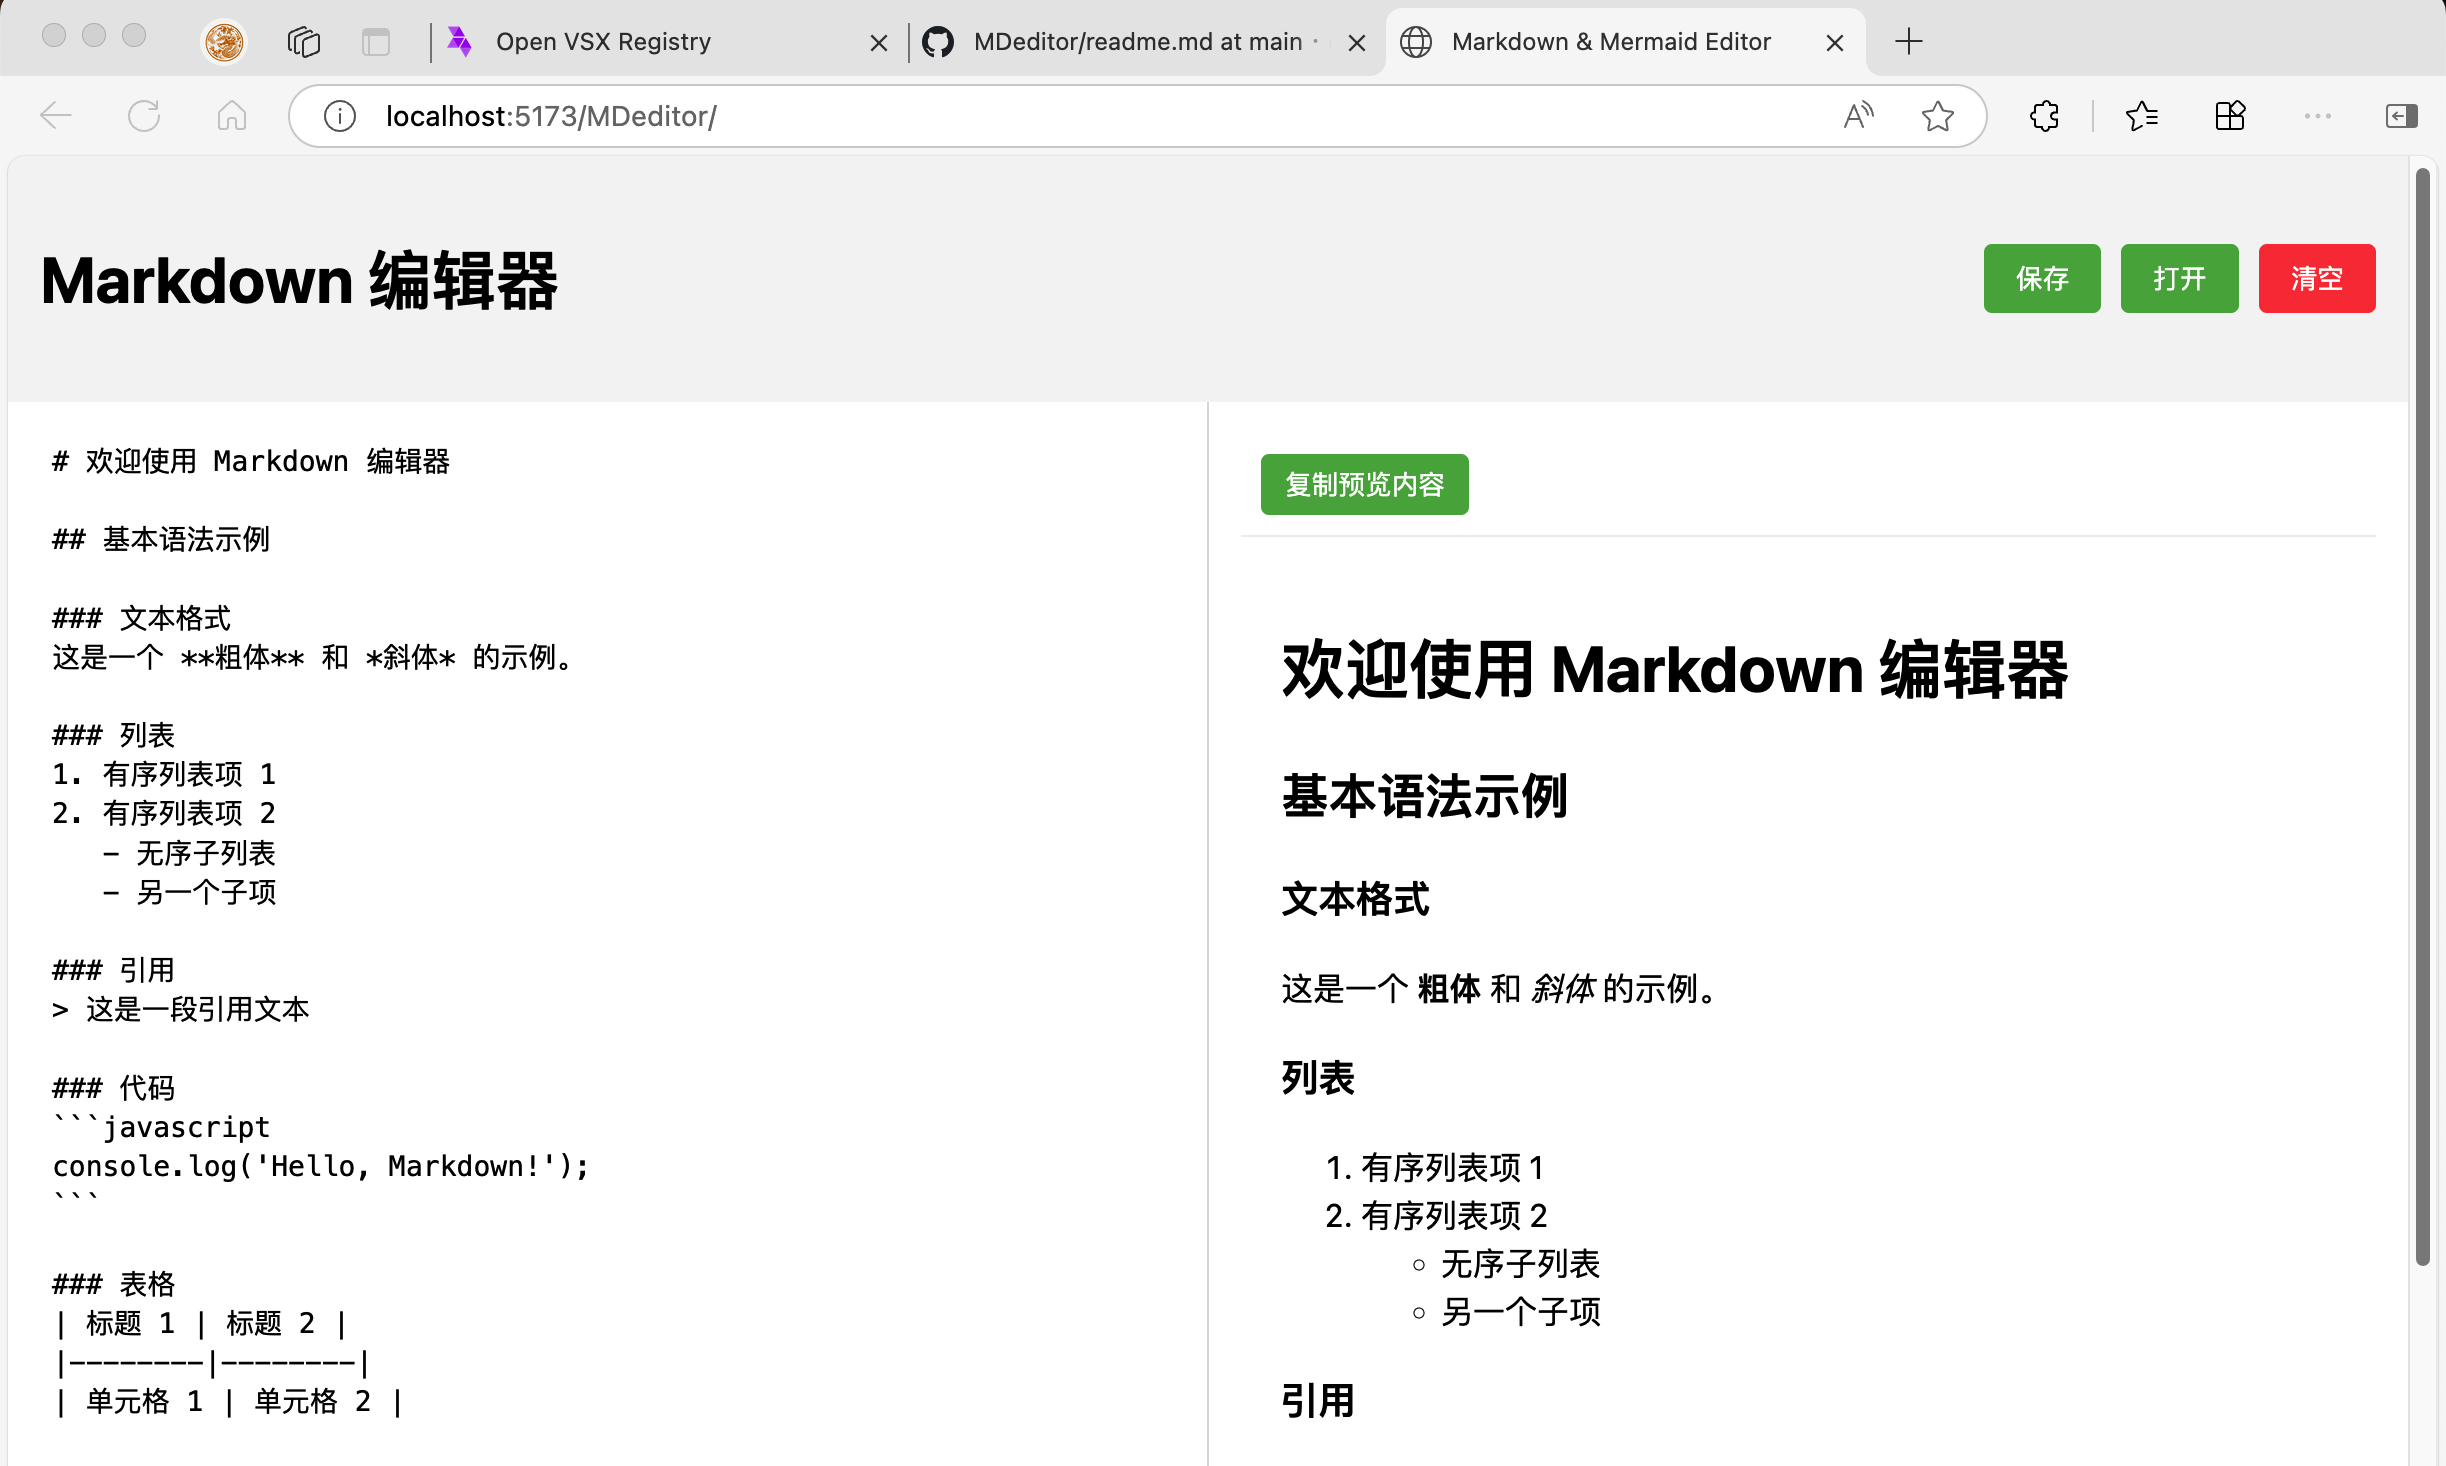
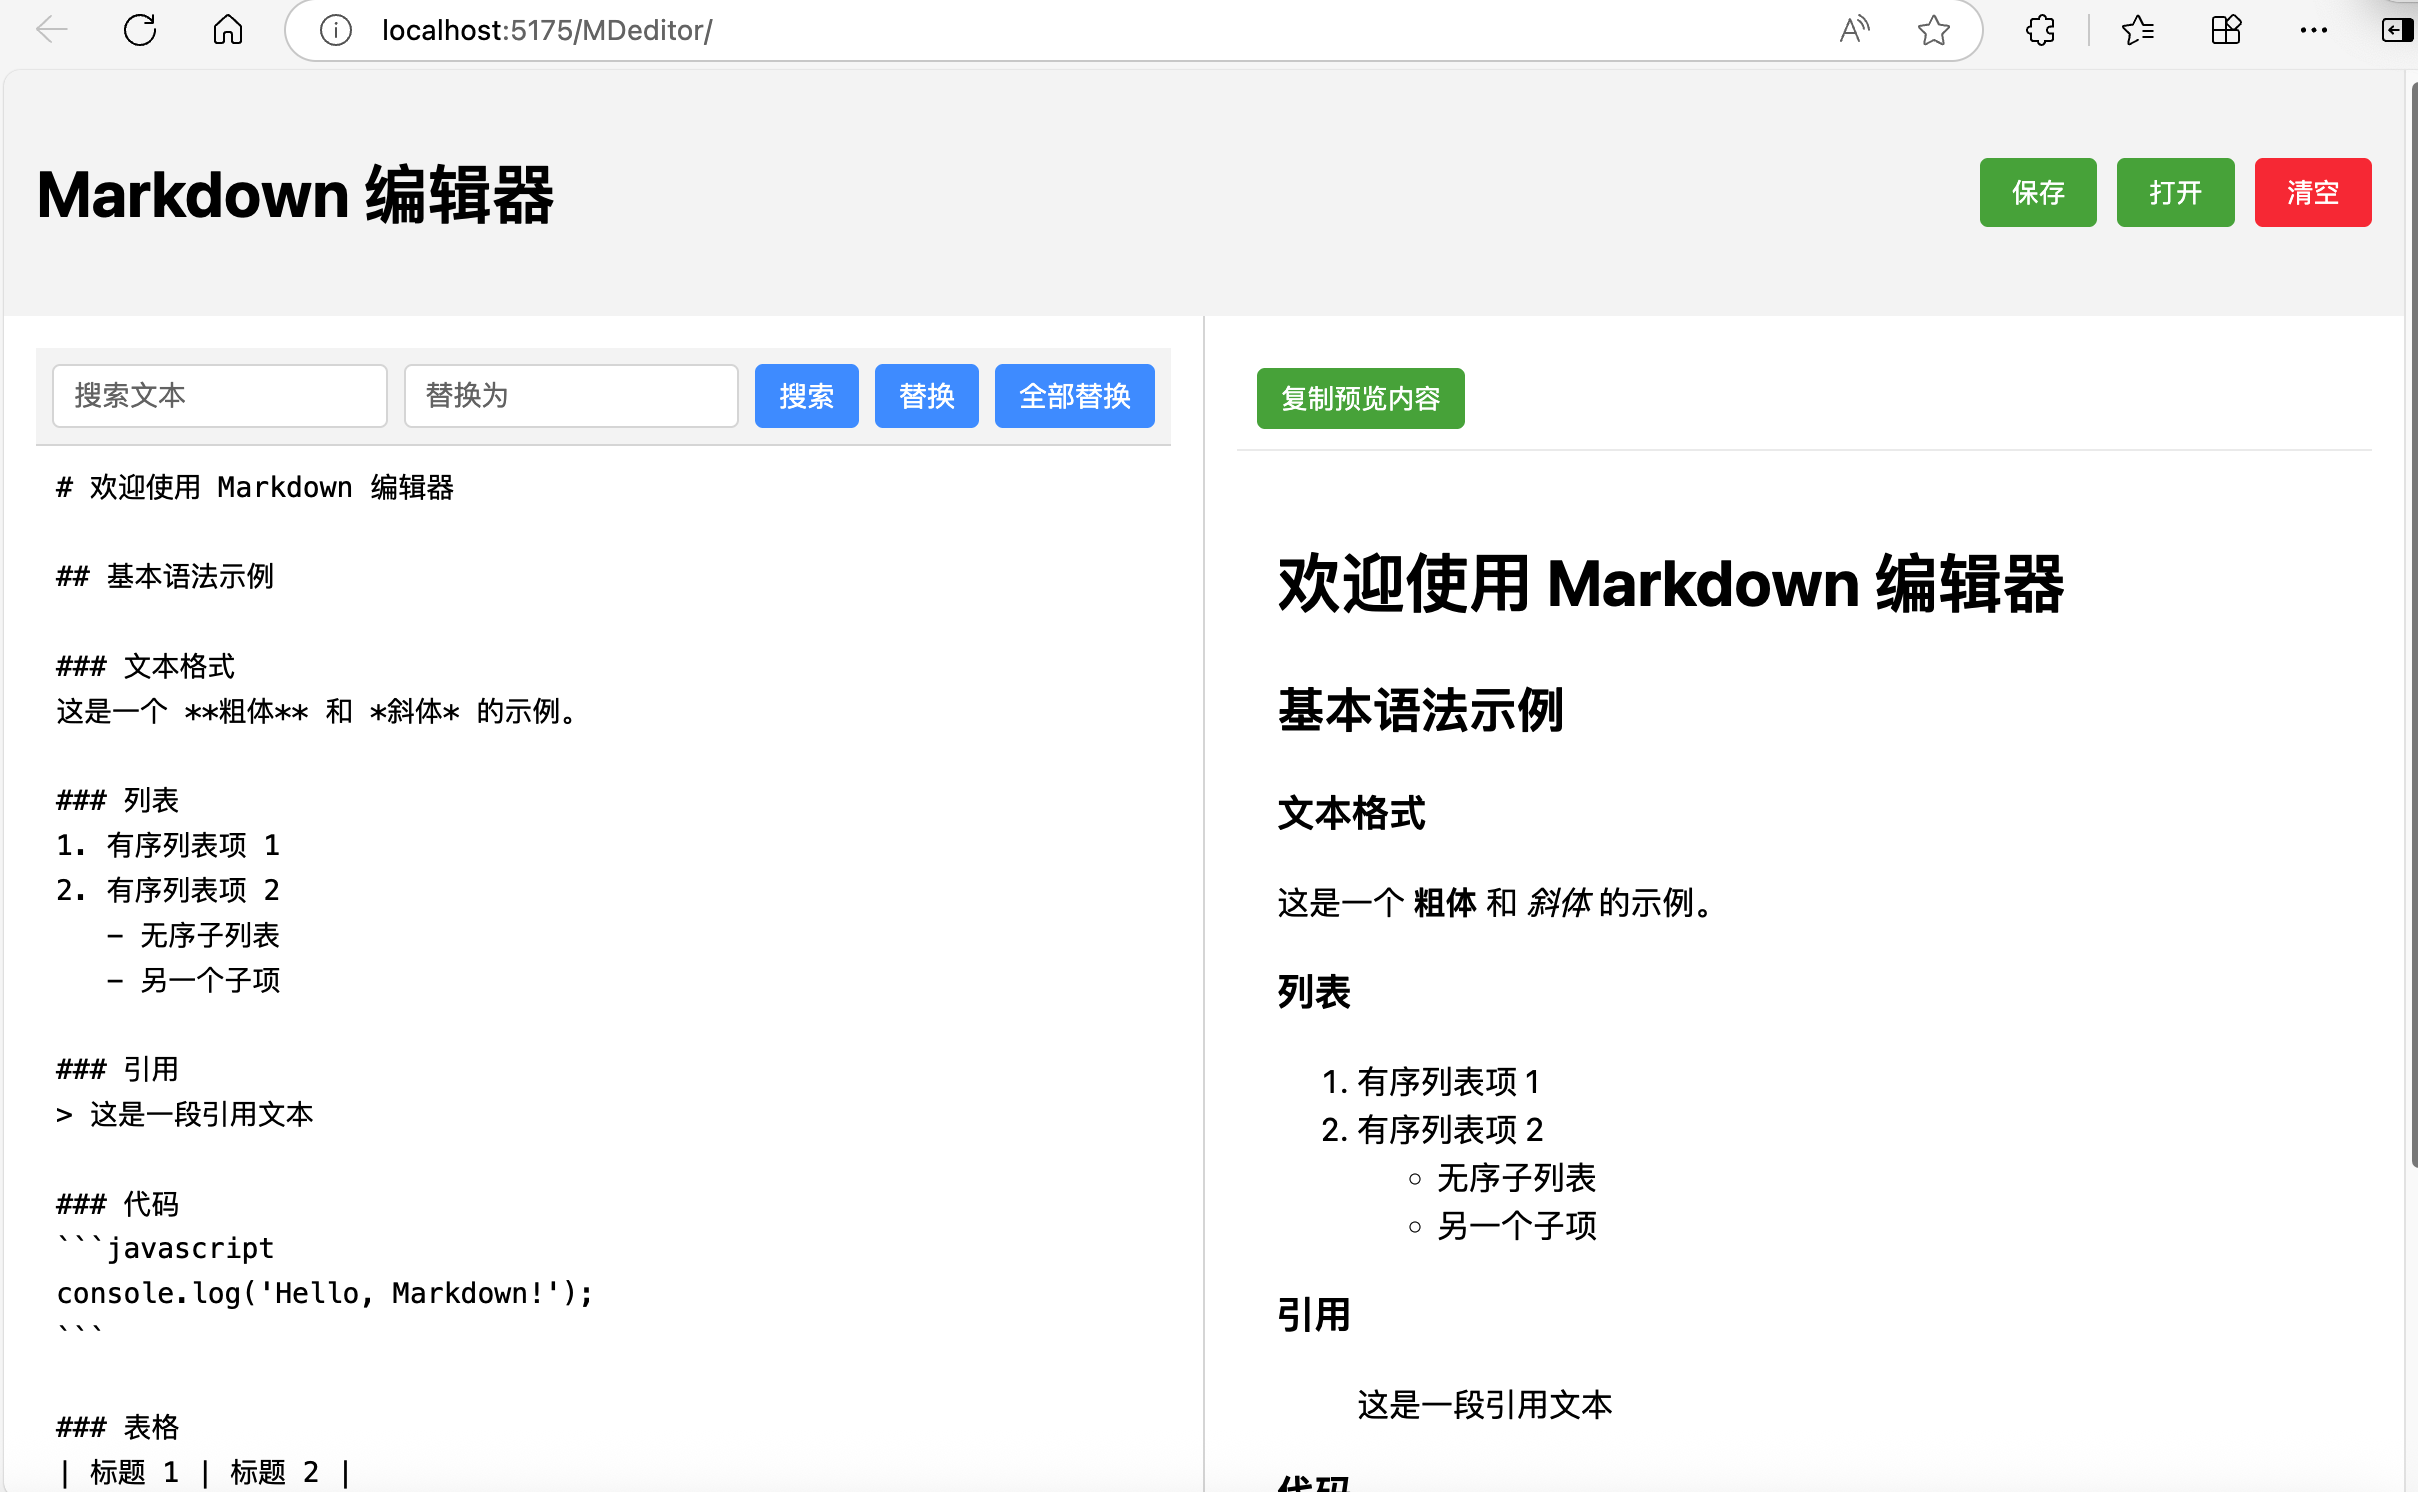
feat: 添加搜索替换功能
- 新增文本搜索功能
- 新增单个替换功能
- 新增全部替换功能
- 优化编辑器样式
- 更新项目截图

diff --git a/src/components/Editor.vue b/src/components/Editor.vue
@@ -1,28 +1,151 @@
 <template>
   <div class="editor-container">
+    <!-- 添加搜索和替换功能区域 -->
+    <div class="search-replace-container">
+      <div class="search-replace-inputs">
+        <input 
+          v-model="searchText" 
+          placeholder="搜索文本" 
+          @keyup.enter="searchAndReplace(false)"
+        />
+        <input 
+          v-model="replaceText" 
+          placeholder="替换为" 
+          @keyup.enter="searchAndReplace(true)"
+        />
+      </div>
+      <div class="search-replace-buttons">
+        <button @click="searchAndReplace(false)" title="搜索">搜索</button>
+        <button @click="searchAndReplace(true)" title="替换">替换</button>
+        <button @click="replaceAll" title="全部替换">全部替换</button>
+      </div>
+    </div>
+    
     <textarea
-      v-model="content"
-      class="editor"
+      ref="editorEl"
+      :value="modelValue"
       @input="handleInput"
+      class="editor"
+      spellcheck="false"
     ></textarea>
   </div>
 </template>
 
-<script setup>
-import { ref } from 'vue'
-
-const props = defineProps({
-  modelValue: {
-    type: String,
-    default: ''
+<script>
+export default {
+  props: {
+    modelValue: {
+      type: String,
+      default: ''
+    }
+  },
+  data() {
+    return {
+      searchText: '',
+      replaceText: '',
+      currentSearchIndex: 0,
+      searchResults: [],
+      lastSearchText: ''
+    }
+  },
+  methods: {
+    handleInput(e) {
+      this.$emit('update:modelValue', e.target.value)
+    },
+    
+    // 搜索和替换功能
+    searchAndReplace(doReplace) {
+      if (!this.searchText) return;
+      
+      const textarea = this.$refs.editorEl;
+      const content = textarea.value;
+      
+      // 重置搜索结果
+      if (this.searchText !== this.lastSearchText) {
+        this.searchResults = [];
+        this.currentSearchIndex = 0;
+        
+        // 查找所有匹配项
+        let index = content.indexOf(this.searchText);
+        while (index !== -1) {
+          this.searchResults.push({
+            from: index,
+            to: index + this.searchText.length
+          });
+          index = content.indexOf(this.searchText, index + 1);
+        }
+        
+        this.lastSearchText = this.searchText;
+      }
+      
+      if (this.searchResults.length === 0) {
+        alert('未找到匹配项');
+        return;
+      }
+      
+      // 获取当前匹配项
+      const current = this.searchResults[this.currentSearchIndex];
+      
+      // 选中文本并滚动到视图
+      textarea.focus();
+      textarea.setSelectionRange(current.from, current.to);
+      
+      // 确保选中的文本在视图中可见
+      const textBeforeSelection = content.substring(0, current.from);
+      const lineCount = (textBeforeSelection.match(/\n/g) || []).length;
+      const lineHeight = 20; // 估计的行高
+      textarea.scrollTop = lineCount * lineHeight;
+      
+      // 如果需要替换
+      if (doReplace) {
+        // 获取当前选中的文本
+        const beforeText = content.substring(0, current.from);
+        const afterText = content.substring(current.to);
+        
+        // 替换文本
+        const newContent = beforeText + this.replaceText + afterText;
+        this.$emit('update:modelValue', newContent);
+        
+        // 更新搜索结果中的位置
+        const lengthDiff = this.replaceText.length - this.searchText.length;
+        for (let i = this.currentSearchIndex + 1; i < this.searchResults.length; i++) {
+          this.searchResults[i].from += lengthDiff;
+          this.searchResults[i].to += lengthDiff;
+        }
+      }
+      
+      // 移动到下一个匹配项
+      this.currentSearchIndex = (this.currentSearchIndex + 1) % this.searchResults.length;
+    },
+    
+    // 全部替换功能
+    replaceAll() {
+      if (!this.searchText) return;
+      
+      const textarea = this.$refs.editorEl;
+      const content = textarea.value;
+      
+      if (content.indexOf(this.searchText) === -1) {
+        alert('未找到匹配项');
+        return;
+      }
+      
+      // 使用正则表达式全局替换
+      const newContent = content.split(this.searchText).join(this.replaceText);
+      
+      // 更新编辑器内容
+      this.$emit('update:modelValue', newContent);
+      
+      // 重置搜索状态
+      this.searchResults = [];
+      this.currentSearchIndex = 0;
+      this.lastSearchText = '';
+      
+      // 显示替换完成消息
+      const count = (content.match(new RegExp(this.searchText.replace(/[.*+?^${}()|[\]\\]/g, '\\$&'), 'g')) || []).length;
+      alert(`已替换 ${count} 处匹配项`);
+    }
   }
-})
-
-const emit = defineEmits(['update:modelValue'])
-const content = ref(props.modelValue)
-
-const handleInput = (e) => {
-  emit('update:modelValue', e.target.value)
 }
 </script>
 
@@ -45,5 +168,62 @@ const handleInput = (e) => {
   white-space: pre-wrap;
   word-wrap: break-word;
   background-color: #fff;
+  font-family: monospace;
+  margin-top: 8px;
+  border: 1px solid #ddd;
+  border-radius: 4px;
+}
+
+.search-replace-container {
+  display: flex;
+  padding: 8px;
+  background-color: #f5f5f5;
+  border-bottom: 1px solid #ddd;
+  flex-wrap: wrap;
+}
+
+.search-replace-inputs {
+  display: flex;
+  flex: 1;
+  gap: 8px;
+  margin-right: 8px;
+}
+
+.search-replace-inputs input {
+  flex: 1;
+  padding: 6px 10px;
+  border: 1px solid #ddd;
+  border-radius: 4px;
+  font-size: 14px;
+}
+
+.search-replace-buttons {
+  display: flex;
+  gap: 8px;
+}
+
+.search-replace-buttons button {
+  padding: 6px 12px;
+  background-color: #4a9eff;
+  color: white;
+  border: none;
+  border-radius: 4px;
+  cursor: pointer;
+  font-size: 14px;
+}
+
+.search-replace-buttons button:hover {
+  background-color: #3a8eef;
+}
+
+@media (max-width: 768px) {
+  .search-replace-container {
+    flex-direction: column;
+  }
+  
+  .search-replace-inputs {
+    margin-right: 0;
+    margin-bottom: 8px;
+  }
 }
 </style>

diff --git a/readme.md b/readme.md
@@ -1,3 +1,4 @@
+
 # Markdown 编辑器
 
 一个简洁的网页版 Markdown 编辑器，基于 Vue 3 + Vite 构建，支持实时预览和格式化文本复制。
@@ -29,6 +30,7 @@ npm run dev
 - 支持复制带格式的预览内容（适用于微信公众号等平台）
 - 一键清空编辑器内容
 - 预览窗口段落文本统一 14px 字号
+- **新增：文本批量搜索和替换功能**
 
 ## 技术栈
 
@@ -66,6 +68,11 @@ MDeditor/
 - 清空：一键清空编辑器内容
 - 复制：复制预览区域的带格式内容
 
+### 搜索和替换功能
+- 搜索：在编辑器中查找指定文本
+- 替换：替换当前找到的文本并移动到下一个匹配项
+- 全部替换：一次性替换所有匹配的文本
+
 ### Markdown 语法支持
 - 标题（H1-H6）
 - 粗体、斜体
@@ -81,6 +88,7 @@ MDeditor/
 - 保存的文件默认使用 .md 扩展名
 - 预览窗口中段落文本统一使用 14px 字号，标题大小保持默认值
 - 建议使用现代浏览器（Chrome、Firefox、Safari 等）以获得最佳体验
+- 搜索替换功能支持连续查找，按回车键可快速定位下一个匹配项
 
 ## 开发计划
 
@@ -88,4 +96,4 @@ MDeditor/
 - [ ] 增加更多 Markdown 扩展语法支持
 - [ ] 添加自定义样式配置
 - [ ] 优化移动端适配
-```
+- [x] 添加文本搜索和替换功能
